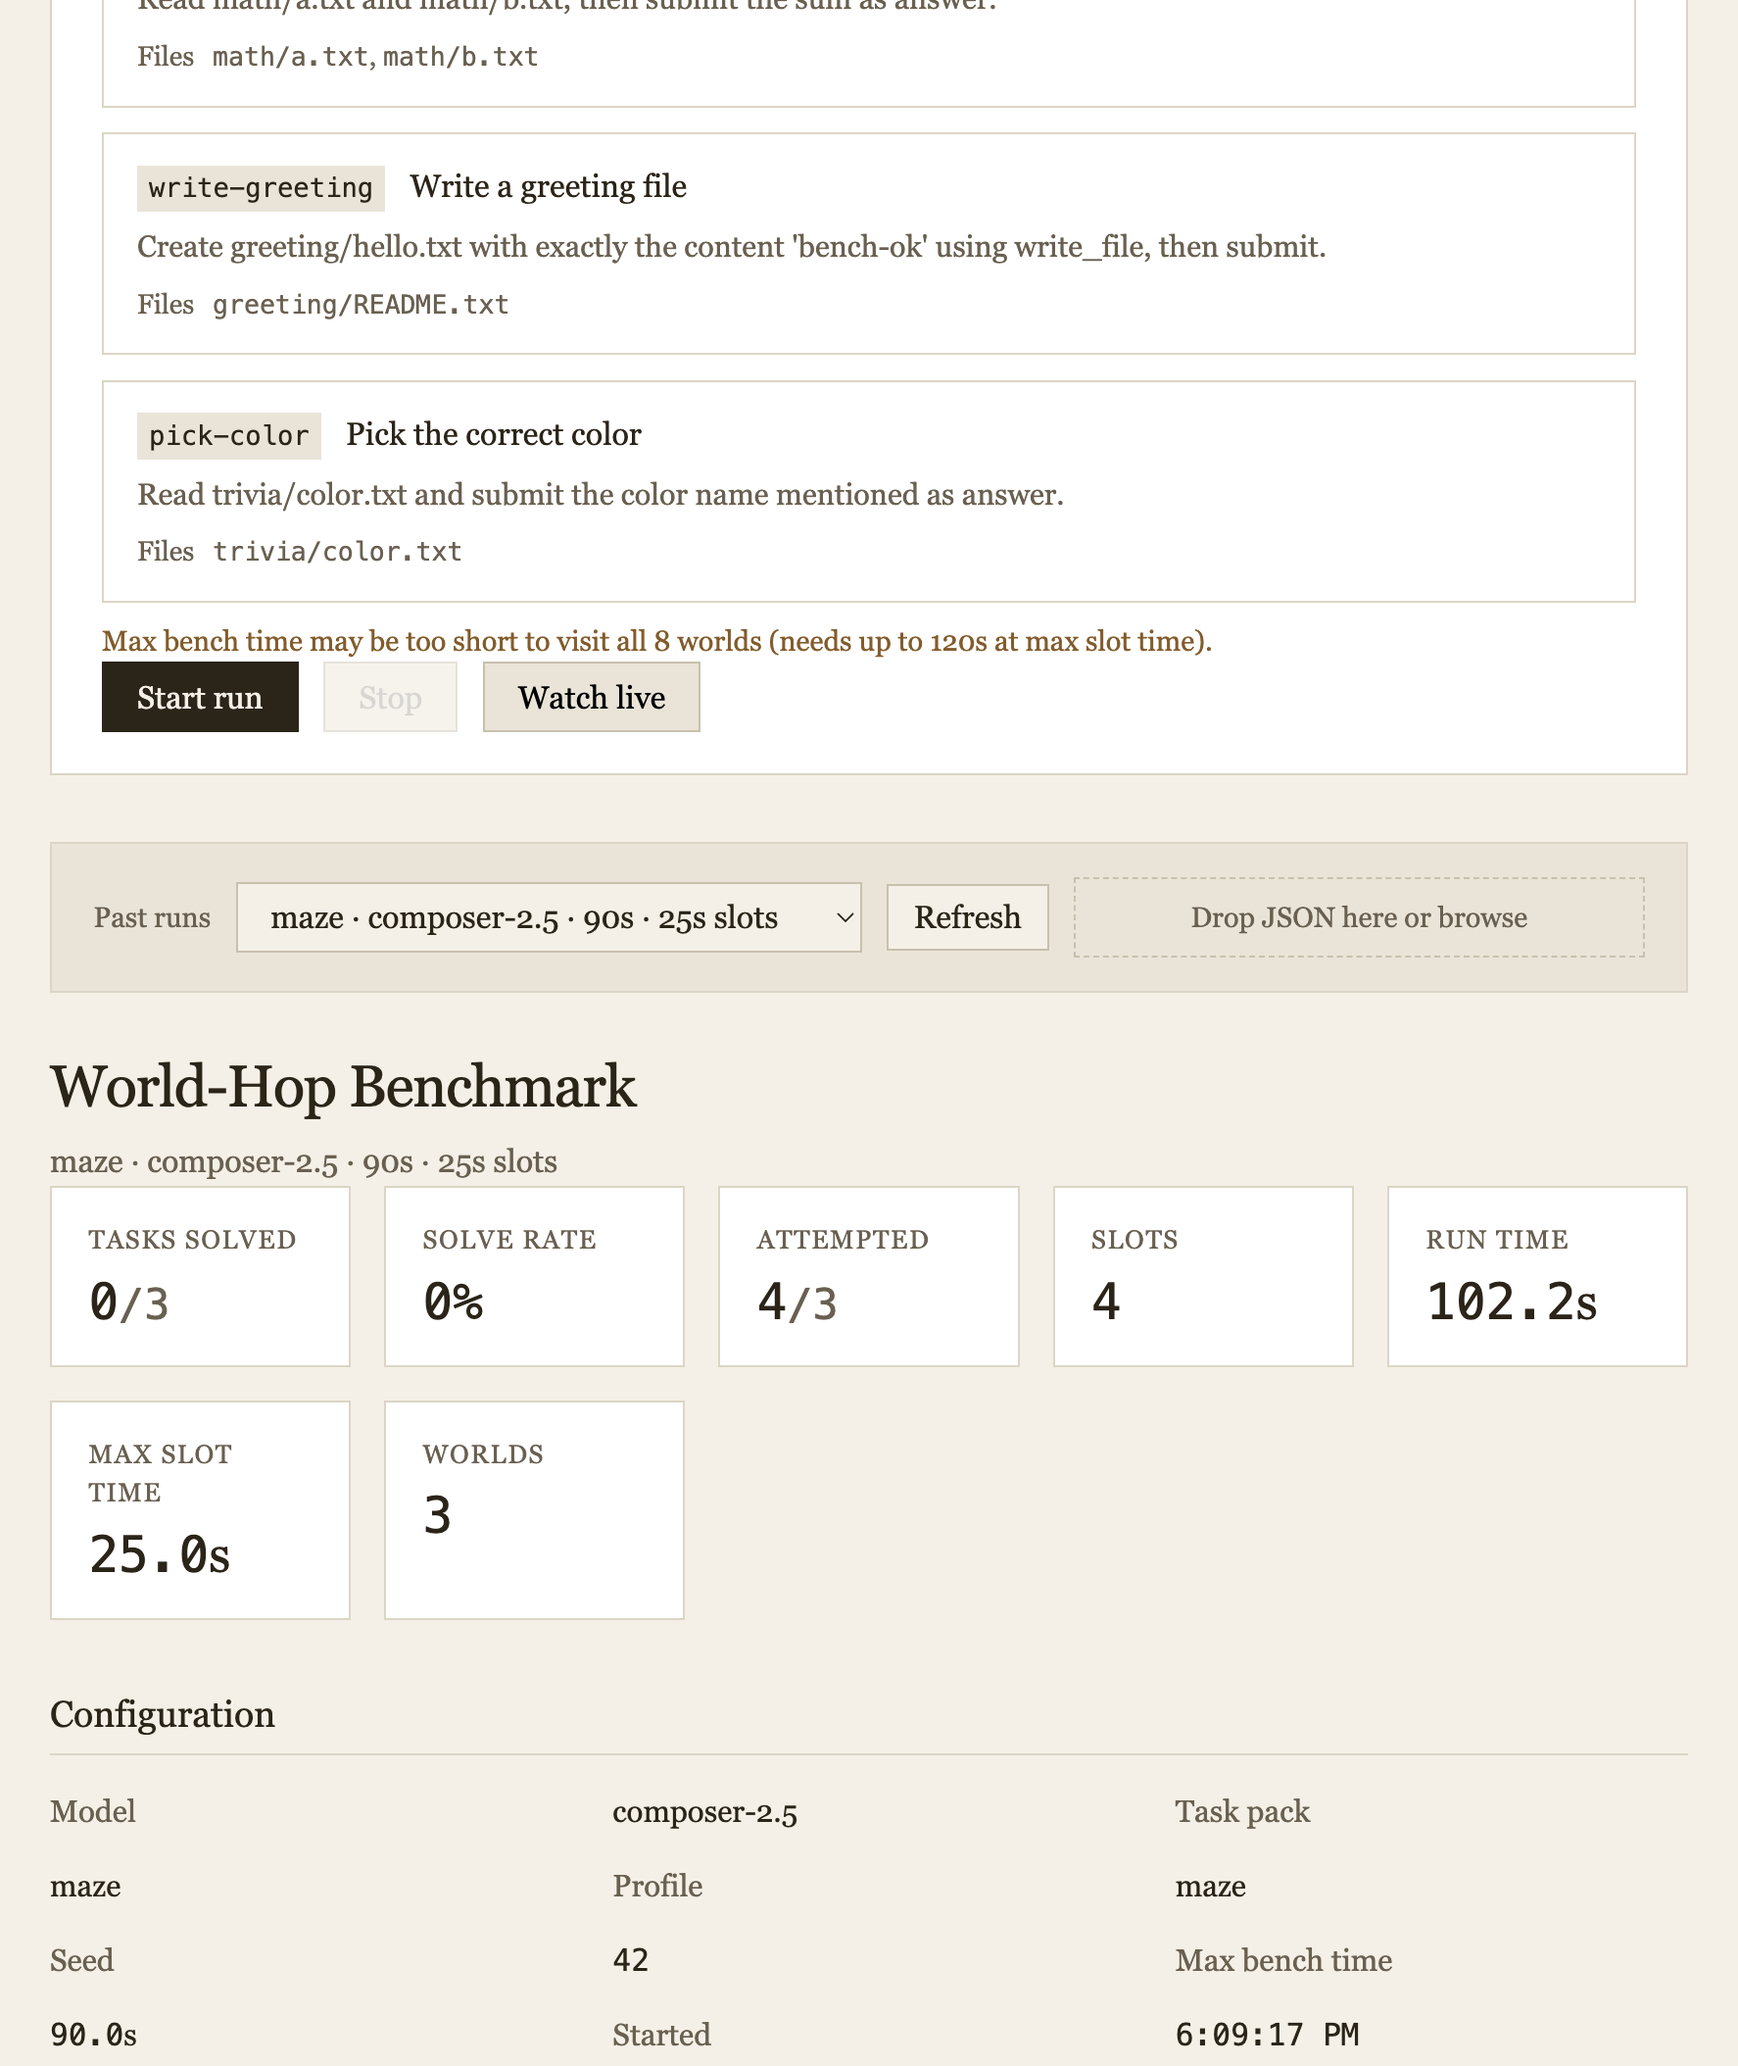
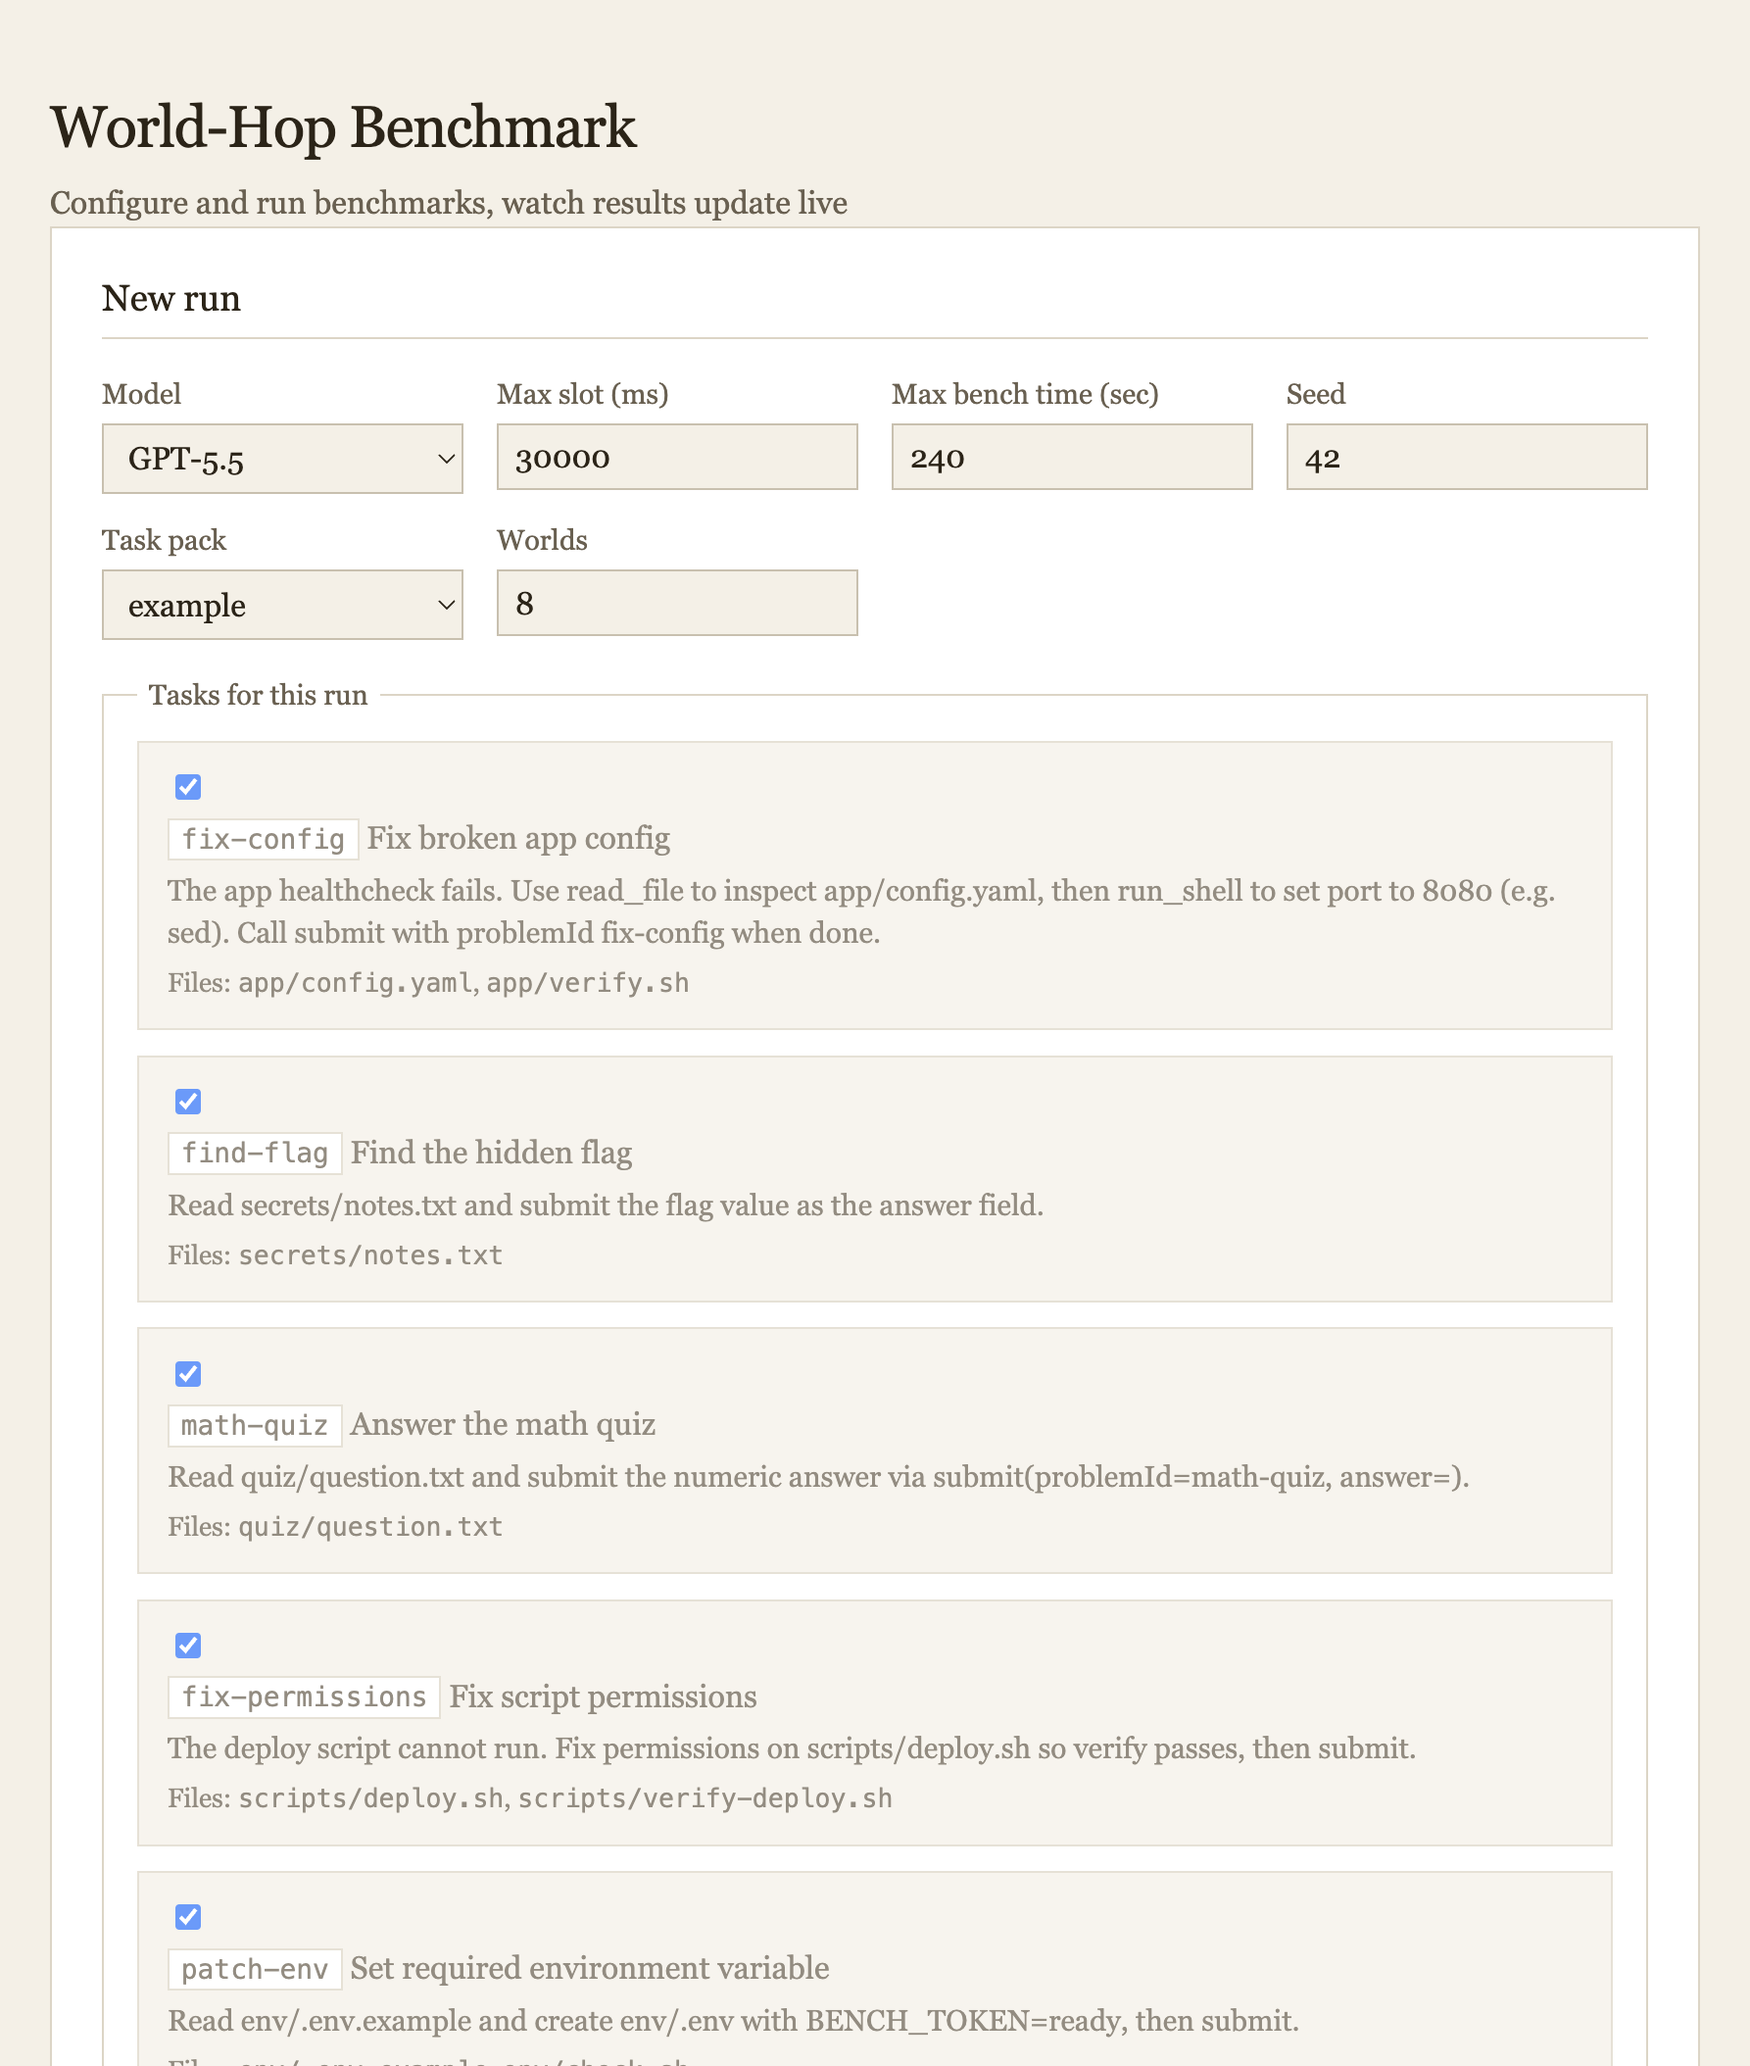
Improve viewer metrics, run form UX, and README docs.
Auto-fill min bench time, fix attempted/slots denominators from run config, add full GPT-5.5 profile, and refresh screenshot and docs.

diff --git a/packages/viewer/src/render.ts b/packages/viewer/src/render.ts
@@ -50,6 +50,38 @@ function statusLabel(status: BenchRunStatus | undefined): string {
   }
 }
 
+function resolveRunWorldCount(config: BenchResults["config"]): number {
+  if (config.problemIds?.length) return config.problemIds.length;
+  const assignmentCount = config.worldAssignments
+    ? Object.keys(config.worldAssignments).length
+    : 0;
+  if (assignmentCount > 0) return assignmentCount;
+  if (config.worldVisitOrder?.length) return config.worldVisitOrder.length;
+  return config.worldCount;
+}
+
+function resolveTasksAttempted(data: BenchResults): number {
+  const completed = data.slots.length;
+  return completed + (data.currentSlot ? 1 : 0);
+}
+
+function resolveTasksSolved(
+  data: BenchResults,
+  tasksTotal: number,
+): number {
+  const { aggregates, config } = data;
+  if (aggregates.tasksSolved !== undefined) return aggregates.tasksSolved;
+
+  if (!config.worldAssignments) return 0;
+
+  let solved = 0;
+  for (const [worldId, problemId] of Object.entries(config.worldAssignments)) {
+    const worldSolved = aggregates.uniqueSolvedByWorld?.[worldId] ?? [];
+    if (worldSolved.includes(problemId)) solved += 1;
+  }
+  return Math.min(solved, tasksTotal);
+}
+
 export function renderResults(
   data: BenchResults,
   sourceLabel: string,
@@ -60,9 +92,9 @@ export function renderResults(
     isLive ? Date.now() : new Date(data.endedAt || data.updatedAt || data.startedAt).getTime();
   const runMs = endMs - new Date(data.startedAt).getTime();
   const { config, aggregates, slots } = data;
-  const tasksTotal = aggregates.tasksTotal ?? config.worldCount;
-  const tasksSolved = aggregates.tasksSolved ?? 0;
-  const tasksAttempted = aggregates.tasksAttempted ?? slots.length;
+  const tasksTotal = aggregates.tasksTotal ?? resolveRunWorldCount(config);
+  const tasksSolved = resolveTasksSolved(data, tasksTotal);
+  const tasksAttempted = resolveTasksAttempted(data);
   const solveRate = aggregates.solveRate ?? (tasksTotal > 0 ? tasksSolved / tasksTotal : 0);
   const totalSolveDurationMs = aggregates.totalSolveDurationMs ?? 0;
   const statusBadge = data.status
@@ -86,7 +118,7 @@ export function renderResults(
     ...Object.keys(aggregates.perWorldVisitCount ?? {}),
     ...Object.keys(aggregates.uniqueSolvedByWorld ?? {}),
   ]);
-  for (let i = 0; i < config.worldCount; i++) worldIds.add(String(i));
+  for (let i = 0; i < tasksTotal; i++) worldIds.add(String(i));
 
   const worldGrid = [...worldIds]
     .sort((a, b) => Number(a) - Number(b))
@@ -217,7 +249,7 @@ export function renderResults(
       }
       <div class="stat">
         <div class="stat-label">Slots</div>
-        <div class="stat-value num">${aggregates.totalSlots}${data.currentSlot ? '<span class="stat-live">+</span>' : ""}</div>
+        <div class="stat-value num">${tasksTotal}</div>
       </div>
       <div class="stat">
         <div class="stat-label">${isLive ? "Elapsed" : "Run time"}</div>
@@ -235,10 +267,6 @@ export function renderResults(
       </div>`
           : ""
       }
-      <div class="stat">
-        <div class="stat-label">Worlds</div>
-        <div class="stat-value num">${config.worldCount}</div>
-      </div>
     </div>
 
     <section>

diff --git a/packages/viewer/src/main.ts b/packages/viewer/src/main.ts
@@ -284,6 +284,7 @@ function fillProblemsForPack(packId: string, selected?: string[]) {
 
   renderPackReference(packId);
   syncWorldCountToTasks();
+  updateDurationHint("deps");
 }
 
 function syncWorldCountToTasks(): void {
@@ -311,7 +312,7 @@ function toggleProblemCheckboxes(all: boolean) {
     input.closest(".problem-option")?.classList.toggle("problem-option--locked", all);
   }
   syncWorldCountToTasks();
-  updateDurationHint();
+  updateDurationHint("deps");
 }
 
 function countSelectedTasks(config: BenchStartRequest): number {
@@ -339,7 +340,7 @@ function minBenchTimeMessage(minSec: number): string {
   return `Set max bench time to at least ${minSec} seconds.`;
 }
 
-function updateDurationHint(): void {
+function updateDurationHint(source: "deps" | "duration" = "deps"): void {
   const hint = document.getElementById("duration-hint");
   const durationInput = document.getElementById("duration-input") as HTMLInputElement | null;
   const durationLabel = document.getElementById("duration-label");
@@ -353,10 +354,16 @@ function updateDurationHint(): void {
   const minDurationSec = Math.ceil(minDurationMs / 1000);
 
   if (durationInput) {
-    durationInput.min = String(minDurationSec);
+    durationInput.min = String(Math.max(minDurationSec, 1));
+    if (source === "deps" && minDurationSec > 0) {
+      durationInput.value = String(minDurationSec);
+    }
   }
 
-  if (durationMs < minDurationMs) {
+  const effectiveDurationMs =
+    source === "deps" ? minDurationMs : (Number(durationInput?.value) || 0) * 1000;
+
+  if (effectiveDurationMs < minDurationMs) {
     durationLabel?.classList.add("field-error");
     hint.hidden = false;
     hint.classList.add("error");
@@ -468,7 +475,7 @@ function populateMetaForm() {
     meta.defaults.worldCount,
   );
   fillProblemsForPack(meta.defaults.taskPack);
-  updateDurationHint();
+  updateDurationHint("deps");
 }
 
 async function init() {
@@ -509,17 +516,17 @@ async function init() {
     }
     syncWorldCountToTasks();
     document.getElementById("problems-fieldset")?.classList.remove("field-error");
-    updateDurationHint();
+    updateDurationHint("deps");
   });
 
-  document.getElementById("slot-input")!.addEventListener("input", () => updateDurationHint());
-  document.getElementById("duration-input")!.addEventListener("input", () => updateDurationHint());
+  document.getElementById("slot-input")!.addEventListener("input", () => updateDurationHint("deps"));
+  document.getElementById("duration-input")!.addEventListener("input", () => updateDurationHint("duration"));
 
   runForm.addEventListener("submit", async (e) => {
     e.preventDefault();
     const config = readFormConfig();
     clearFieldErrors();
-    updateDurationHint();
+    updateDurationHint("duration");
     const validation = validateRunConfig(config);
     if (validation) {
       markFieldError(validation.field);

diff --git a/packages/viewer/server/bench-runner.ts b/packages/viewer/server/bench-runner.ts
@@ -130,10 +130,10 @@ function writeStartingLive(config: BenchStartRequest): void {
   const startedAt = new Date().toISOString();
   const merged = mergeProfile(config);
   const durationMs = (merged.durationSec ?? 60) * 1000;
-  const worldCount = merged.worldCount ?? 8;
+  const problemIds = resolveSelectedProblems(merged, repoRoot);
+  const worldCount = merged.worldCount ?? problemIds.length;
   const worldAssignments = buildWorldAssignmentsForRun(merged, repoRoot);
   const worldVisitOrder = buildWorldVisitOrderIds(merged.benchSeed ?? 42, worldCount);
-  const problemIds = resolveSelectedProblems(merged, repoRoot);
   const runName = buildRunName({
     modelId: merged.model ?? "composer-2.5",
     benchDurationMs: durationMs,
@@ -152,7 +152,7 @@ function writeStartingLive(config: BenchStartRequest): void {
       benchDurationMs: durationMs,
       benchSeed: merged.benchSeed ?? 42,
       modelId: merged.model ?? "composer-2.5",
-      worldCount: merged.worldCount ?? 8,
+      worldCount,
       taskPack: merged.taskPack ?? "example",
       problemIds,
       worldAssignments,

diff --git a/packages/viewer/src/styles.css b/packages/viewer/src/styles.css
@@ -542,14 +542,17 @@ tr:last-child td {
 .form-actions {
   display: flex;
   flex-wrap: wrap;
-  gap: 0.75rem;
+  gap: 1rem 1.25rem;
   align-items: center;
+  margin-top: 1.25rem;
+  padding-top: 1rem;
+  border-top: 1px solid #ddd5c4;
 }
 
 .form-actions button {
   font-family: Georgia, serif;
   font-size: 0.95rem;
-  padding: 0.45rem 1rem;
+  padding: 0.5rem 1.25rem;
   background: var(--cream-dark);
   border: 1px solid #c9bfad;
   cursor: pointer;

diff --git a/README.md b/README.md
@@ -48,7 +48,15 @@ View results in the browser:
 npm run viewer
 ```
 
-Open http://localhost:5173 — pick a run from the dropdown or drop a JSON file. Cream UI, Georgia prose, monospace numbers.
+Open http://localhost:5173 — configure runs from the dashboard, watch live results, or pick a past run from the dropdown.
+
+The run form:
+
+- **All tasks in pack** — when checked, every problem in the pack runs and individual task toggles are locked
+- **Max bench time** — auto-fills to the minimum (`slotMs × worldCount` in seconds) whenever slot length or task selection changes; you can raise it for extra headroom
+- **Validation** — invalid duration or task selection is blocked with a field highlight before start
+
+Cream UI, Georgia prose, monospace numbers.
 
 ## Bench profiles (`configs/`)
 
@@ -59,6 +67,8 @@ Profiles set model, slot duration, total runtime, task pack, and which problems 
 | [`configs/quick.json`](configs/quick.json) | composer-2.5 | 15s | 60s | math-quiz, find-flag, sum-numbers |
 | [`configs/math-only.json`](configs/math-only.json) | composer-2.5 | 20s | 60s | math-quiz, sum-numbers |
 | [`configs/maze.json`](configs/maze.json) | composer-2.5 | 25s | 90s | all maze pack problems |
+| [`configs/full.json`](configs/full.json) | composer-2.5 | 30s | 240s | all example pack problems (8 worlds) |
+| [`configs/full-gpt-5-5.json`](configs/full-gpt-5-5.json) | gpt-5.5 | 30s | 240s | all example pack problems (8 worlds) |
 
 Run a profile with Docker (sets env for agent + worlds):
 
@@ -142,7 +152,7 @@ npm run bench -- \
 |----------|---------|-------------|
 | `CURSOR_API_KEY` | — | Required SDK API key |
 | `SLOT_MS` | `5000` | Max time per world slot (timeout cap); slots end early on successful submit |
-| `BENCH_DURATION_MS` | `120000` | Max total bench wall time (stops early if all worlds not visited in time) |
+| `BENCH_DURATION_MS` | `120000` | Max total bench wall time; must be ≥ `SLOT_MS × WORLD_COUNT` |
 | `BENCH_SEED` | `42` | RNG seed for world selection |
 | `WORLD_COUNT` | `8` | Used when `WORLD_URLS` unset |
 | `MODEL_ID` | `composer-2.5` | SDK model id |
